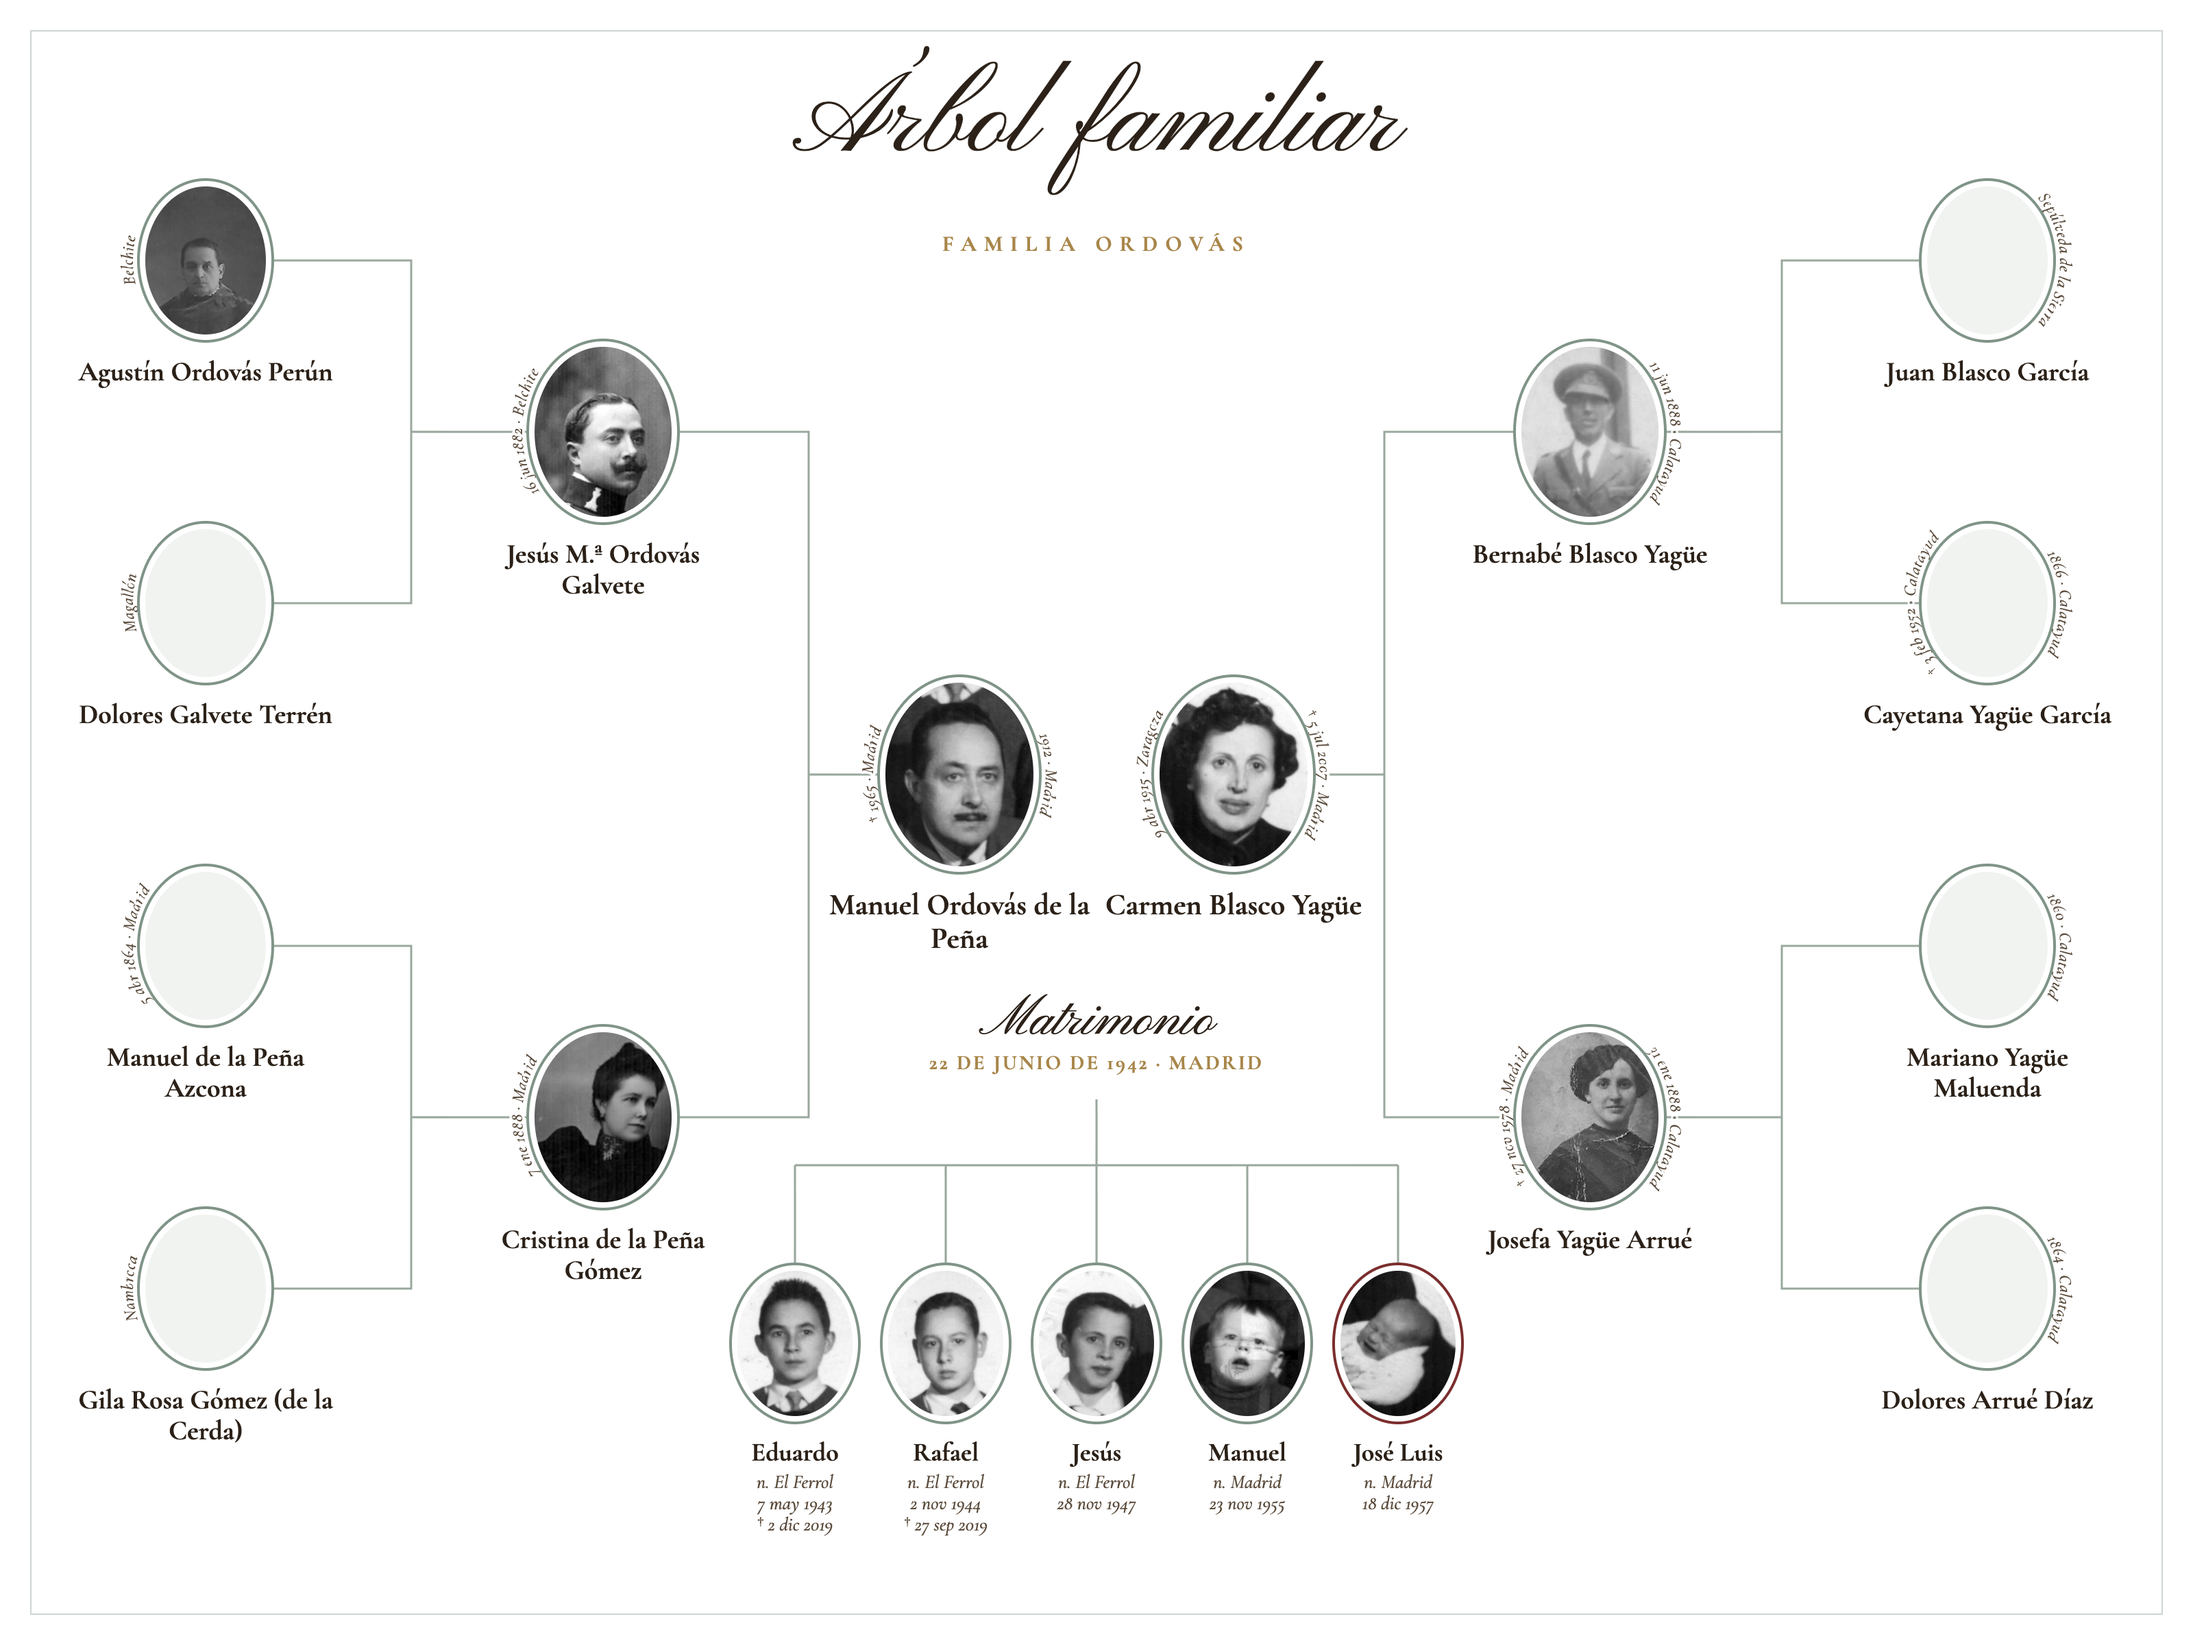
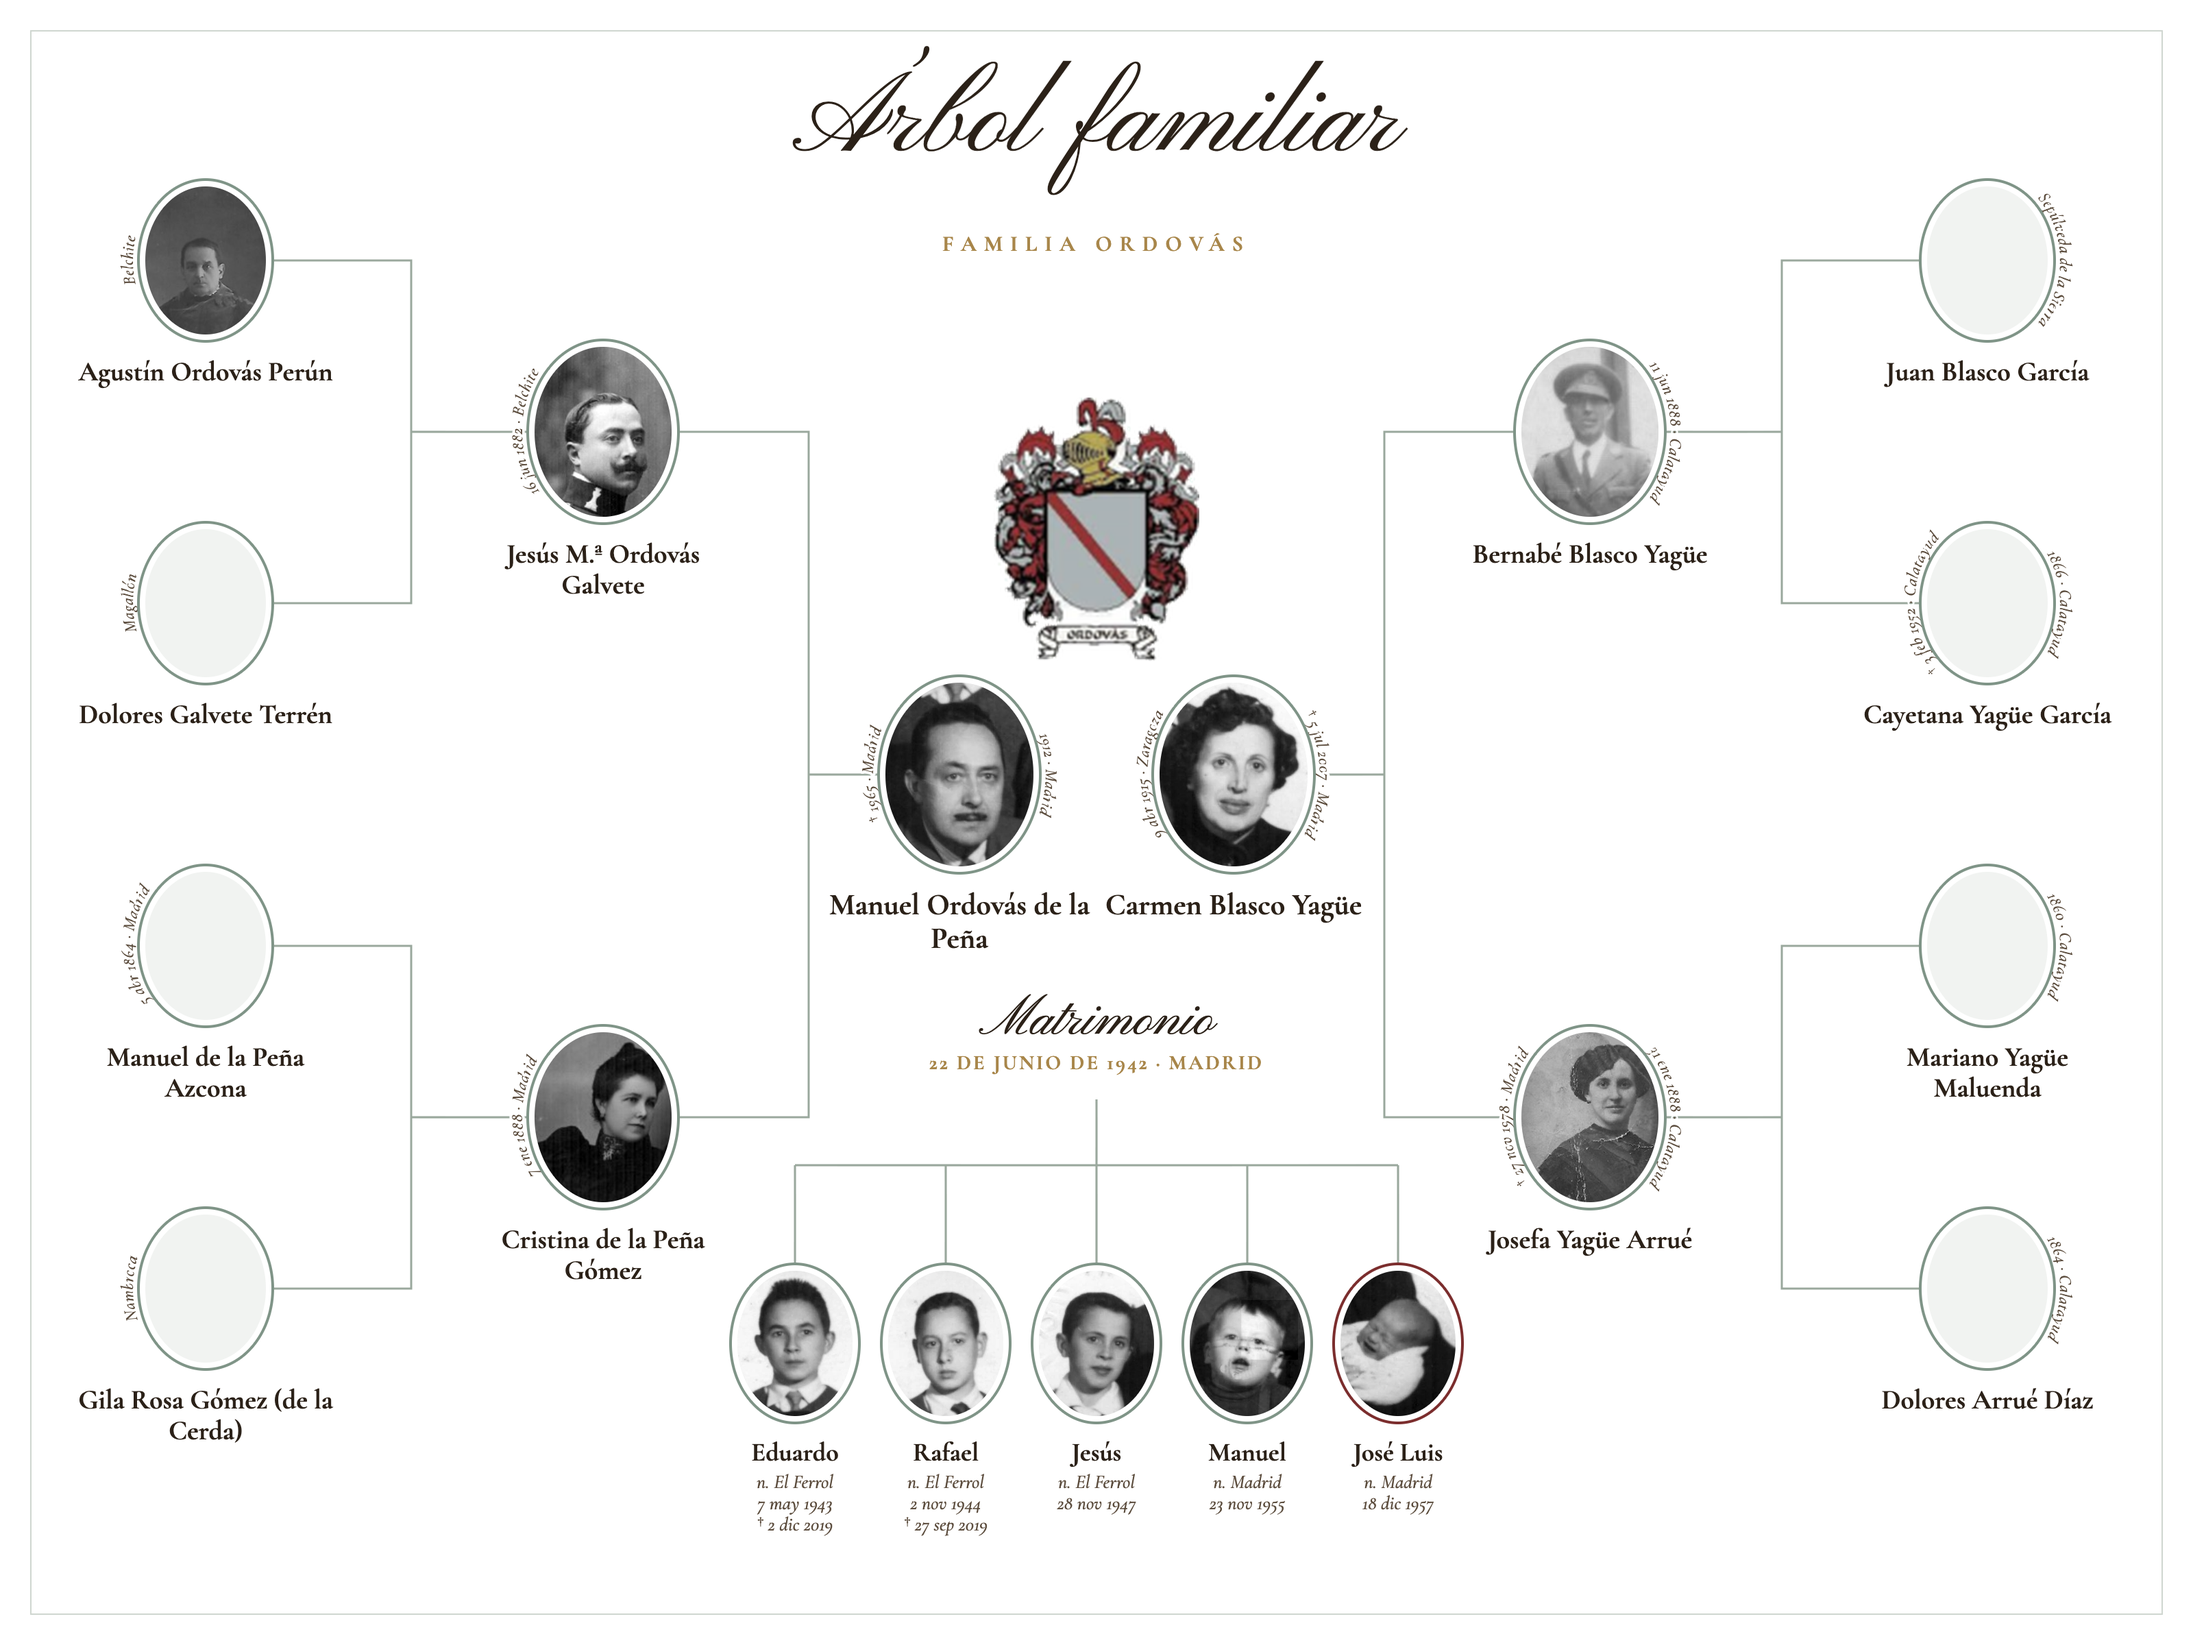
Escudo Ordovás en el árbol familiar e iconos de la web

Changed region(s): [[0.4375, 0.25, 0.5625, 0.4062]]

diff --git a/arbol-lamina.html b/arbol-lamina.html
@@ -7,6 +7,7 @@
 <div class="lamina">
 <div class="marco"></div>
 <div class="titulo"><span class="guion">Árbol familiar</span><small>Familia Ordovás</small></div>
+<img class="escudo" src="img/escudo-ordovas.png" alt="Escudo de los Ordovás">
 <svg class="conectores" viewBox="0 0 1600 1200"><g fill="none" stroke="#9aa89d" stroke-width="1.6"><path d="M194 190H300V440H194"/><path d="M300 315H390"/><path d="M194 690H300V940H194"/><path d="M300 815H390"/><path d="M490 315H590V815H490"/><path d="M590 565H646"/><path d="M1406 190H1300V440H1406"/><path d="M1300 315H1210"/><path d="M1406 690H1300V940H1406"/><path d="M1300 815H1210"/><path d="M1110 315H1010V815H1110"/><path d="M1010 565H954"/><path d="M800 802V850"/><path d="M580 850H1020"/><path d="M580 850V927"/><path d="M690 850V927"/><path d="M800 850V927"/><path d="M910 850V927"/><path d="M1020 850V927"/></g></svg>
 <div class="fig " style="left:50.0px;top:136.0px;width:200px"><div class="caja" style="width:88px;height:108px"><svg class="arco" width="180" height="200" viewBox="0 0 180 200" style="left:-46px;top:-46px"><path id="a1n" d="M76.3 160.9 A53.0 63.0 0 0 1 76.3 39.1" fill="none"/><text><textPath href="#a1n" startOffset="50%" text-anchor="middle">Belchite</textPath></text></svg><span class="ovalo" data-ini="AO" style="width:88px;height:108px"><img src="img/Agustin-Ordovas-Perun.jpg" alt="Agustín Ordovás Perún" style="object-view-box:inset(1% 30% 68% 30%)"></span></div><span class="rotulo"><b>Agustín Ordovás Perún</b></span></div>
 <div class="fig " style="left:50.0px;top:386.0px;width:200px"><div class="caja" style="width:88px;height:108px"><svg class="arco" width="180" height="200" viewBox="0 0 180 200" style="left:-46px;top:-46px"><path id="a2n" d="M76.3 160.9 A53.0 63.0 0 0 1 76.3 39.1" fill="none"/><text><textPath href="#a2n" startOffset="50%" text-anchor="middle">Magallón</textPath></text></svg><span class="ovalo" data-ini="DG" style="width:88px;height:108px"></span></div><span class="rotulo"><b>Dolores Galvete Terrén</b></span></div>

diff --git a/index.html b/index.html
@@ -8,6 +8,9 @@
 <link rel="preconnect" href="https://fonts.googleapis.com">
 <link rel="preconnect" href="https://fonts.gstatic.com" crossorigin>
 <link href="https://fonts.googleapis.com/css2?family=Cormorant+Garamond:ital,wght@0,500;0,600;0,700;1,500&family=Source+Serif+4:wght@400;600&family=Pinyon+Script&display=swap" rel="stylesheet">
+<link rel="icon" href="favicon.ico" sizes="any">
+<link rel="icon" type="image/png" sizes="32x32" href="img/favicon-32.png">
+<link rel="apple-touch-icon" href="img/apple-touch-icon.png">
 <link rel="stylesheet" href="css/style.css">
 </head>
 <body>
@@ -46,7 +49,7 @@
     <h2>El árbol familiar</h2>
     <p>Nombres, lugares y fechas de nacimiento y defunción de tres generaciones, con la foto de quien la tiene.</p>
   </div>
-  <figure class="lamina-web" hidden><a href="img/arbol-genealogico.png?v=6" target="_blank" rel="noopener"><img src="img/arbol-genealogico.png?v=6" alt="Árbol genealógico de la familia Ordovás: Manuel Ordovás de la Peña y Carmen Blasco Yagüe en el centro, sus ascendientes a ambos lados y sus hijos Eduardo, Rafael, Jesús, Manuel y José Luis debajo"></a><figcaption>Pulsa en la imagen para verla a tamaño completo</figcaption></figure>
+  <figure class="lamina-web" hidden><a href="img/arbol-genealogico.png?v=7" target="_blank" rel="noopener"><img src="img/arbol-genealogico.png?v=7" alt="Árbol genealógico de la familia Ordovás: Manuel Ordovás de la Peña y Carmen Blasco Yagüe en el centro, sus ascendientes a ambos lados y sus hijos Eduardo, Rafael, Jesús, Manuel y José Luis debajo"></a><figcaption>Pulsa en la imagen para verla a tamaño completo</figcaption></figure>
   <div class="tablero-marco reveal"><div class="tablero">
     <div class="tablero-titulo"><span class="guion">Familia Ordovás</span><small>Cuatro generaciones</small></div>
 

diff --git a/css/lamina.css b/css/lamina.css
@@ -6,6 +6,7 @@ html, body { margin: 0; background: #fff; }
 .guion { display: block; font-family: "Pinyon Script", "Cormorant Garamond", cursive; font-size: 84px; line-height: 1.05; }
 .titulo small, .boda small { display: block; font-size: 16px; letter-spacing: .34em; text-transform: uppercase; color: #a8864a; font-weight: 700; }
 .titulo small { margin-top: 34px; }
+.escudo { position: absolute; left: 725px; top: 290px; width: 150px; height: auto; }
 .arbolito { position: absolute; left: 655px; top: 150px; width: 290px; height: 330px; }
 .conectores { position: absolute; left: 0; top: 0; width: 1600px; height: 1200px; }
 .fig { position: absolute; text-align: center; text-decoration: none; color: inherit; }
